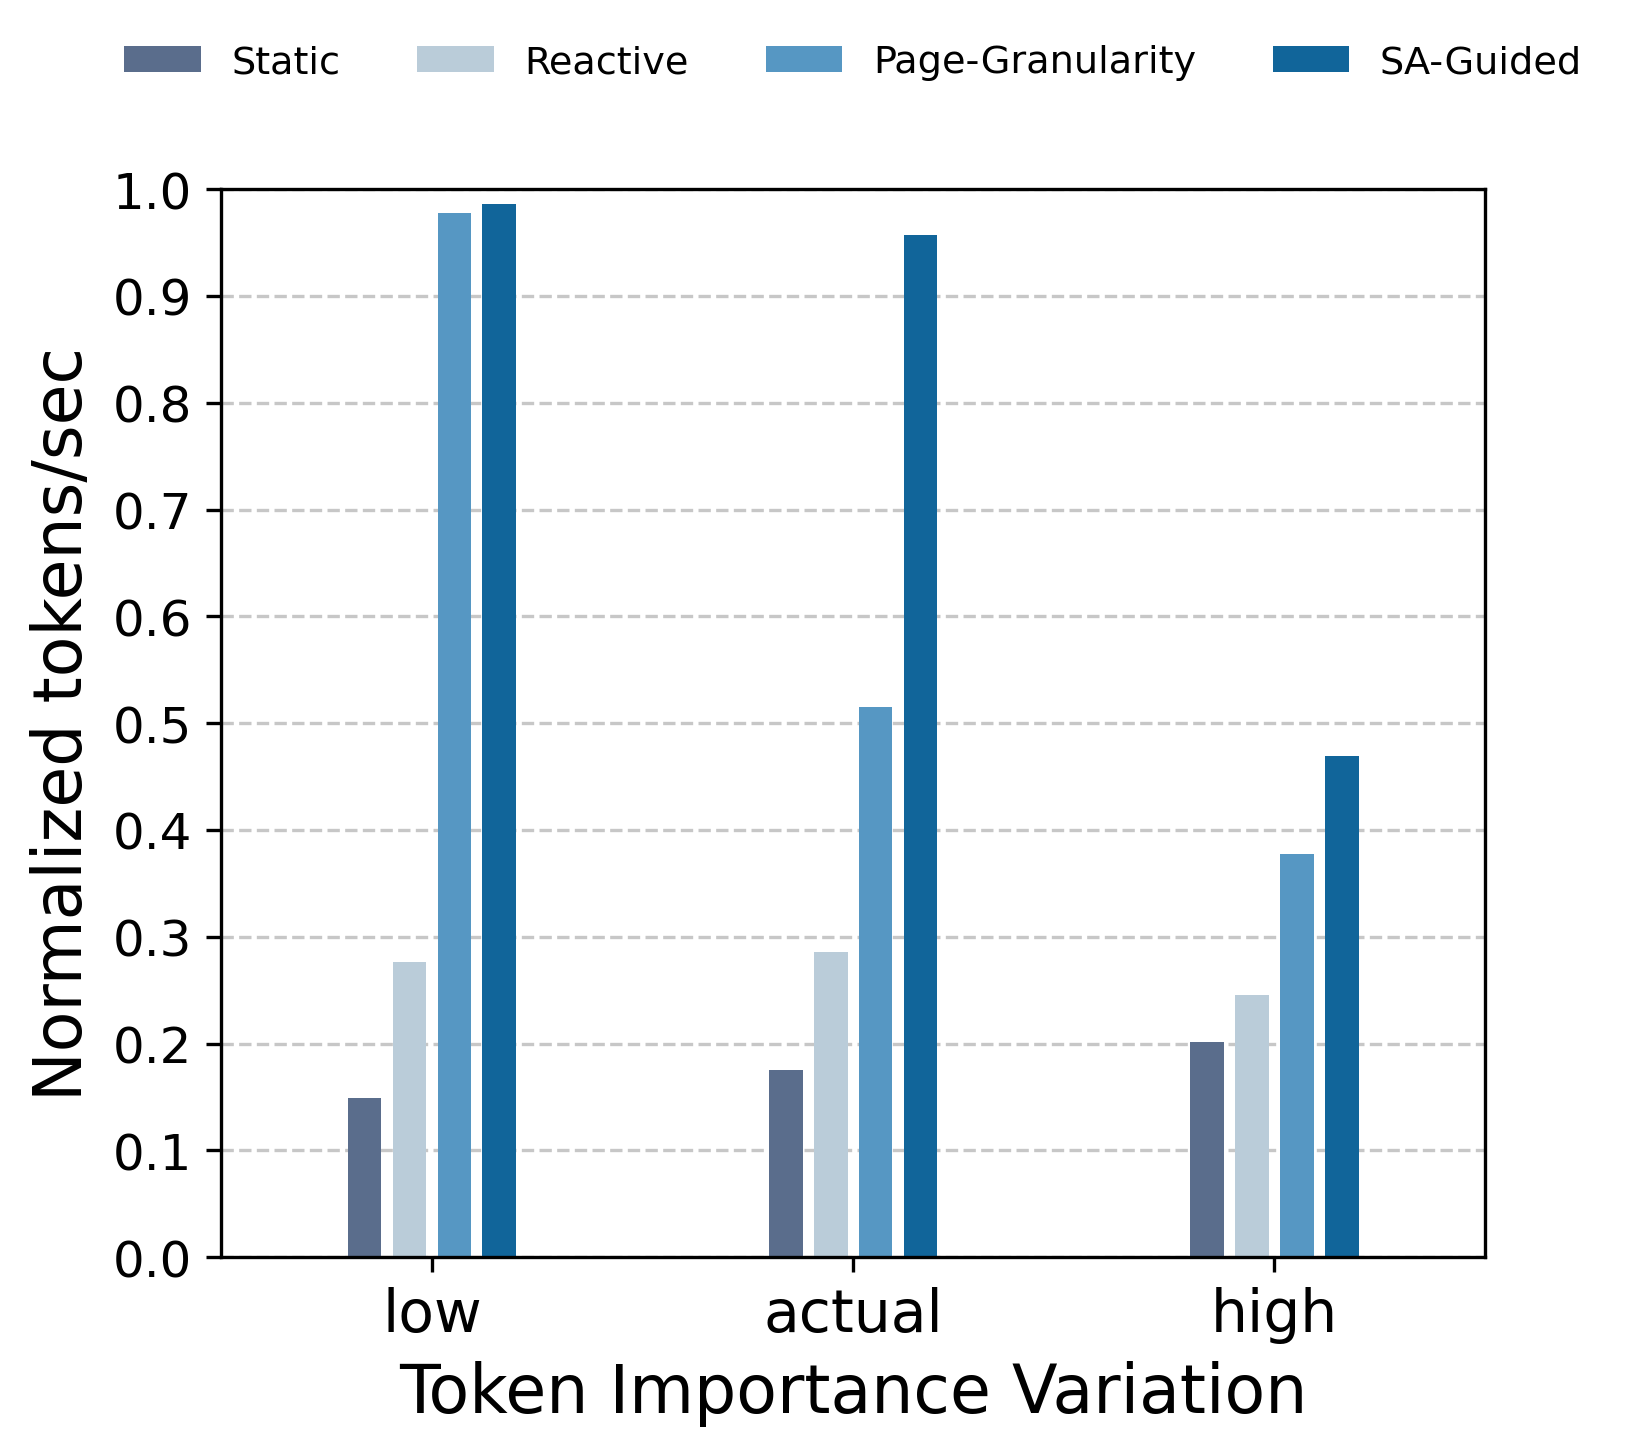
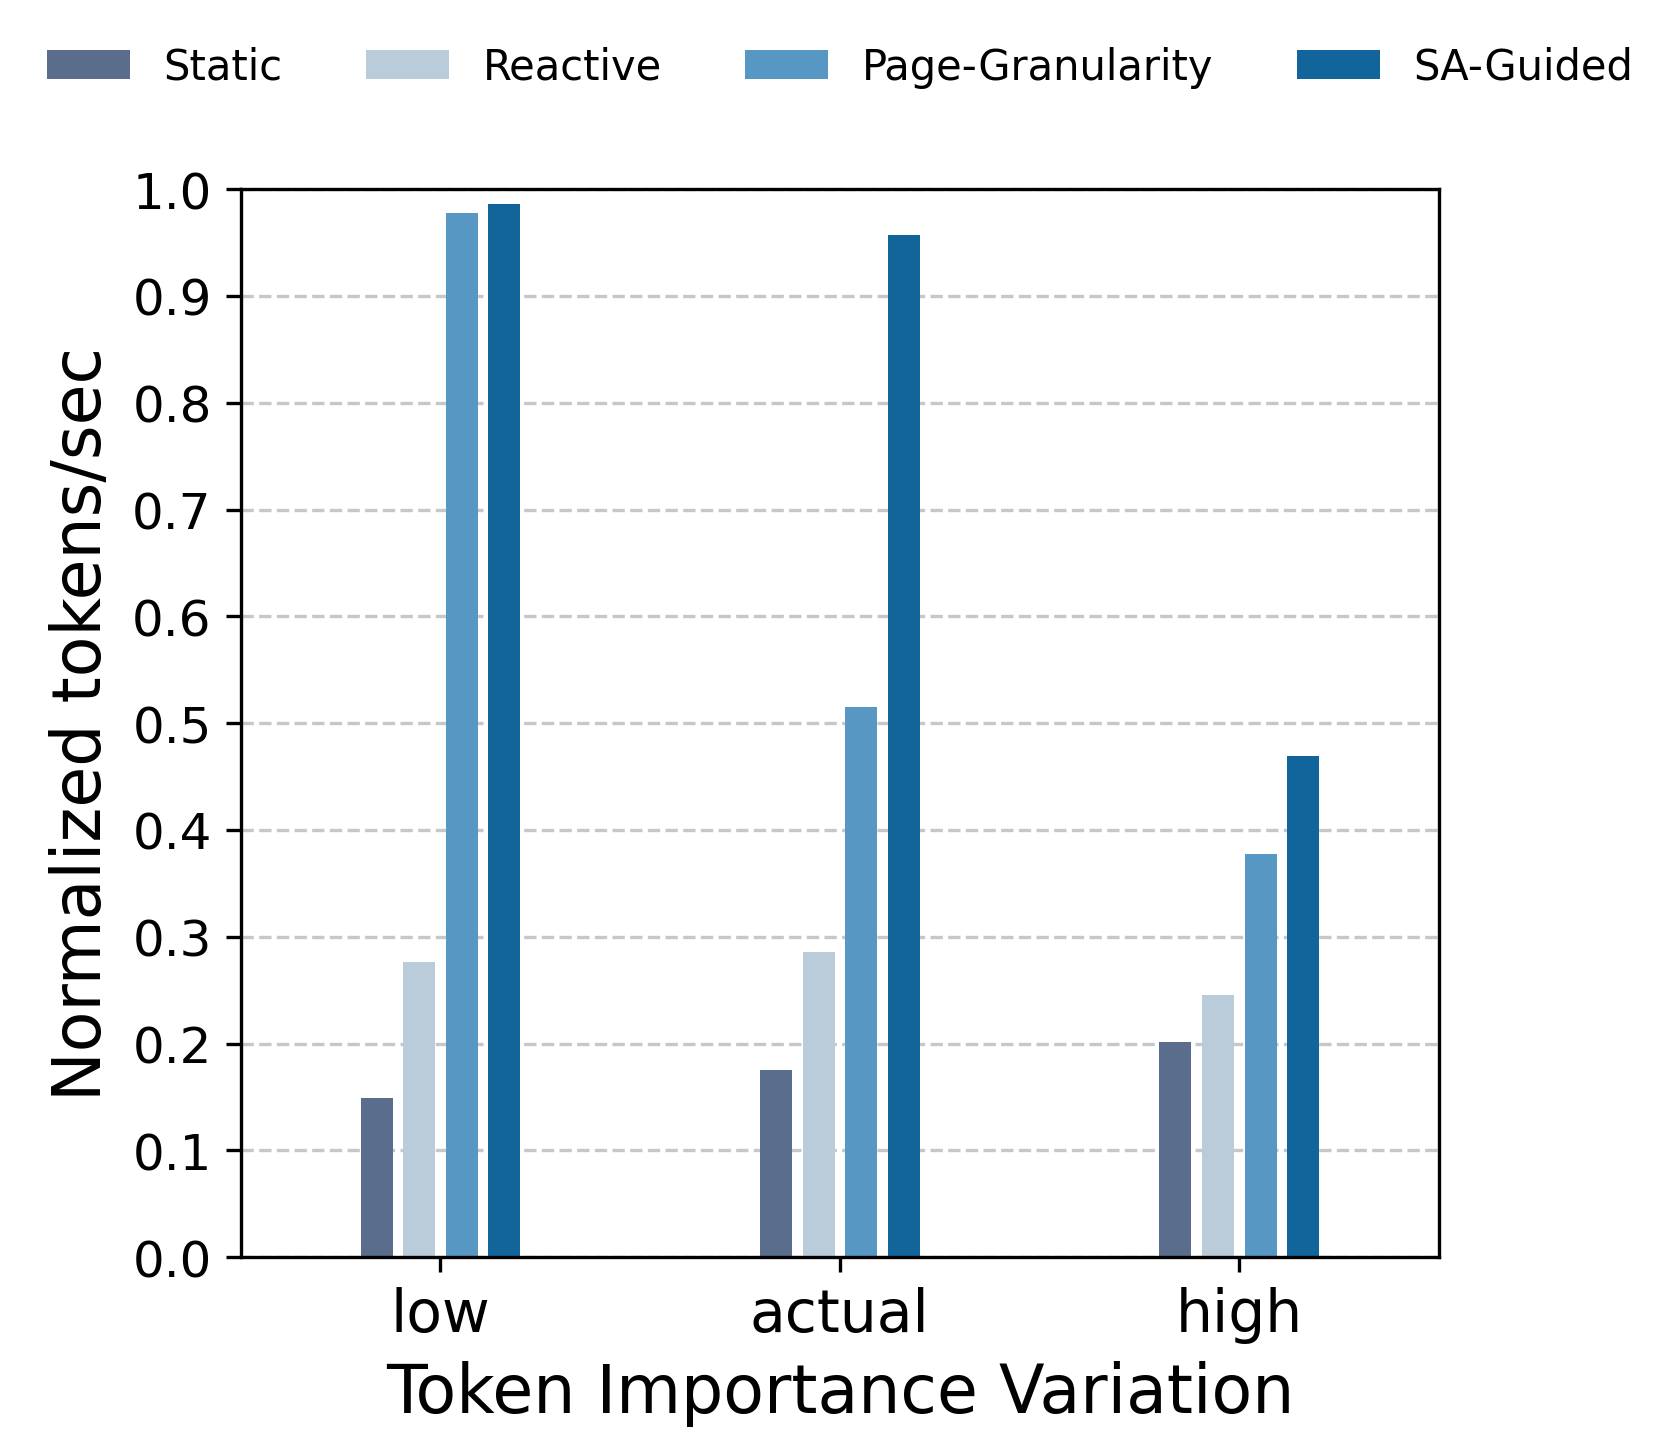
update random

diff --git a/plot_scripts/plot_random_bars.py b/plot_scripts/plot_random_bars.py
@@ -176,7 +176,7 @@ if __name__ == "__main__":
         loc='upper center',
         bbox_to_anchor=(0.5, 1.15),
         ncol=min(5, n_methods),
-        fontsize=9.2,
+        fontsize=10,
         frameon=False,
         borderaxespad=0.
     )
